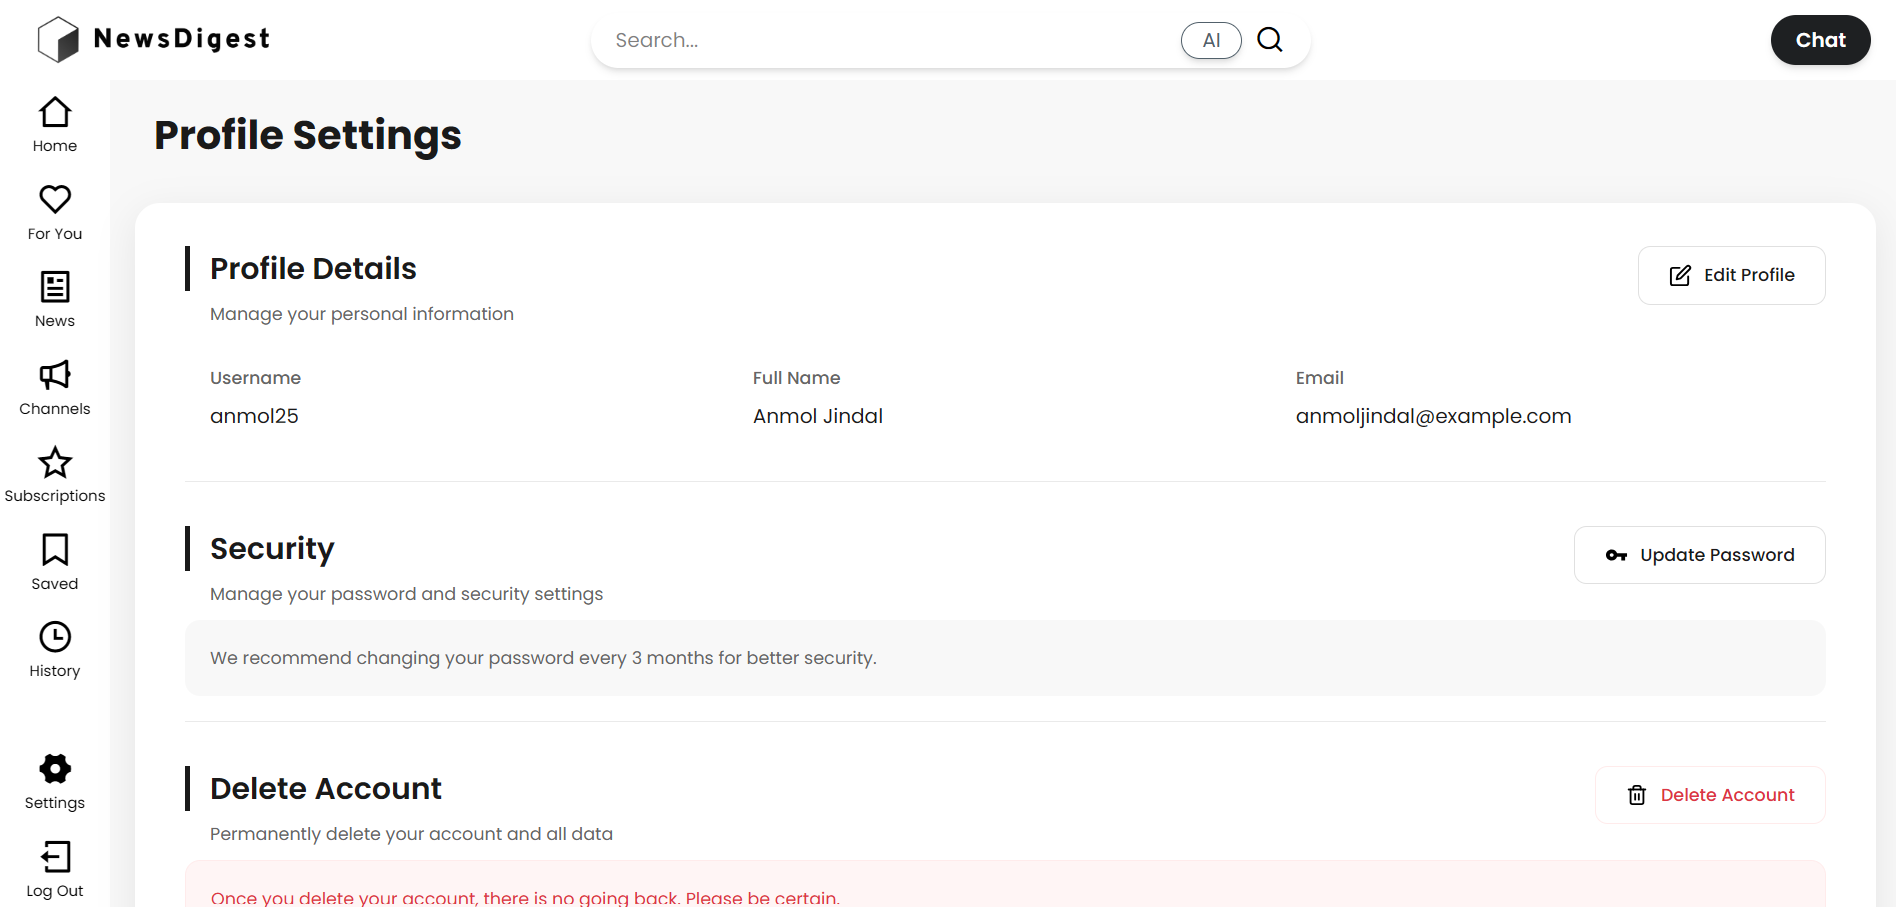
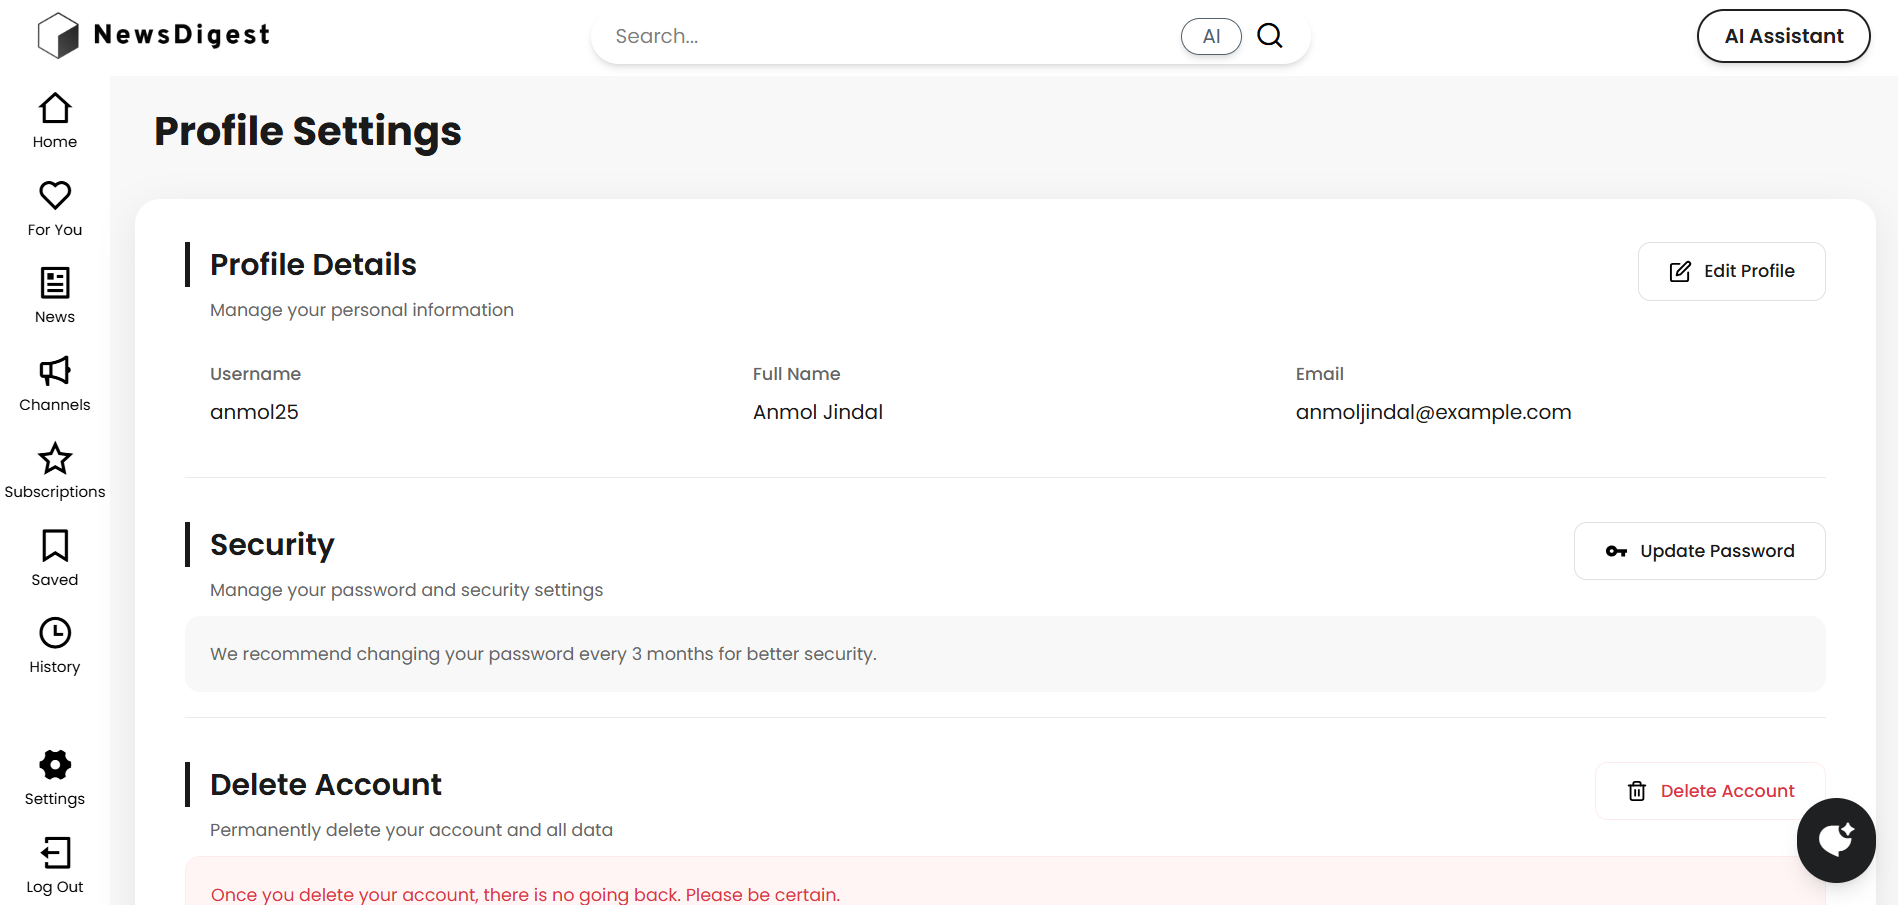
Updated Readme.MD

diff --git a/apps/frontend/src/components/ChatComponents/utils/MiniArticle.tsx b/apps/frontend/src/components/ChatComponents/utils/MiniArticle.tsx
@@ -31,7 +31,16 @@ function MiniArticle({ data }: { data: ArticleMeta }) {
             {published_date ? (
               <>
                 <span className="mx-1">•</span>
-                <span>{new Date(published_date).toLocaleString()}</span>
+                <span>
+                  {new Date(published_date).toLocaleString(undefined, {
+                    month: "short",
+                    day: "numeric",
+                    year: "numeric",
+                    hour: "numeric",
+                    minute: "2-digit",
+                    hour12: true,
+                  })}
+                </span>
               </>
             ) : null}
           </div>

diff --git a/apps/frontend/src/components/ChatMini/MiniChatWidget.tsx b/apps/frontend/src/components/ChatMini/MiniChatWidget.tsx
@@ -117,7 +117,7 @@ const MiniChatWidget: React.FC = () => {
 
       {/* Panel */}
       {isOpen && (
-        <div className="w-[450px] h-[550px] max-w-[92vw] max-h-[82vh] rounded-2xl shadow-xl border border-[#E5E5E5] bg-white overflow-hidden flex flex-col">
+        <div className="w-[500px] h-[600px] max-w-[92vw] max-h-[82vh] rounded-2xl shadow-xl border border-[#E5E5E5] bg-white overflow-hidden flex flex-col">
           {/* Header */}
           <div className="flex items-center justify-between px-3 py-2 border-b border-[#ECECEC] bg-[#FAFAFA]">
             <div className="flex items-center gap-2">

diff --git a/README.md b/README.md
@@ -8,6 +8,7 @@ NewsDigest is an AI-powered news aggregator designed to fix the modern news expe
   <img src="https://img.shields.io/badge/Styling-TailwindCSS-cyan?style=for-the-badge&logo=tailwindcss" alt="TailwindCSS">
   <img src="https://img.shields.io/badge/Database-PostgreSQL-blue?style=for-the-badge&logo=postgresql" alt="PostgreSQL">
   <img src="https://img.shields.io/badge/AI-Gemini_&_HuggingFace-orange?style=for-the-badge&logo=google-gemini" alt="AI Models">
+    <img src="https://img.shields.io/badge/Containers-Docker-informational?style=for-the-badge&logo=docker" alt="Docker">
 </p>
 
 ---
@@ -15,6 +16,18 @@ NewsDigest is an AI-powered news aggregator designed to fix the modern news expe
 <p align="center">
   <img src="images/home.gif" alt="NewsDigest Home Page" width="90%">
 </p>
+
+## Table of Contents
+
+- The Problem
+- Features
+- Agentic RAG Chatbot
+- Tech Stack
+- Project Snapshots
+- Requirements
+- Local Setup
+- Run with Docker (optional)
+- Author
 
 ## The Problem
 
@@ -26,11 +39,39 @@ Most news feeds are a mess. You're flooded with articles from countless sources,
 * **No More Duplicates**: Instead of just looking at headlines, NewsDigest uses SBERT embeddings to understand the *semantic meaning* of articles. If two articles are about the same thing, you'll only see the first one.
 * **Quick AI Summaries**: Get the gist of any article without reading the whole thing. Summaries are generated on the fly using a fine-tuned DistilBART model.
 * **Smarter Search with AI Highlights**: Standard search is combined with the Gemini API to provide AI-generated highlights for your query, giving you immediate context and answers.
+* **Agentic RAG Chatbot (Gemini 2.5 Flash)**: Conversational news analyst that scrapes the main article, compares 2–3 similar pieces, and produces search highlights from 5–6 high-signal results.
 * **Clean, Responsive UI**: The interface is built with React and Tailwind CSS for a simple, fast, and clutter-free reading experience on any device.
 * **A Feed That Learns**: The 'For You' page adapts to your reading history to show you more of what you care about.
 * **Standard User Features**: Includes secure JWT authentication, bookmarks, reading history, and source management.
 
 ---
+
+## Agentic RAG Chatbot
+
+Bring an analyst into your feed. The Agentic RAG (Retrieval-Augmented Generation) Chatbot uses a set of purpose-built tools to search, scrape, and cross-check coverage so you get trustworthy, contextual answers. It’s powered by Google Gemini 2.5 Flash for fast, high‑quality reasoning.
+
+Tools used by the Agent:
+
+- `search_db_tool`: Retrieves top relevant articles from the NewsDigest database based on your query.
+- `scrape_articles_tool`: Scrapes full content from article URLs for accurate analysis and summarization.
+- `latest_by_topic_tool`: Pulls the freshest coverage for a topic to ground responses in what’s new.
+
+What it can do:
+
+- AI News Analyzer
+    - Scrapes the main article you’re looking at.
+    - Finds 2–3 closely related articles across sources.
+    - Produces sharp highlights and a quick comparison of how different outlets covered the same story.
+
+- AI Search Highlights
+    - From the top 20 results for your query, selects 5–6 highly relevant articles.
+    - Scrapes them and generates concise, source-grounded highlights so you can skim the landscape in seconds.
+
+Why it’s useful:
+
+- Coverage awareness: See how narratives differ across outlets.
+- Faster decisions: Get the gist without opening a dozen tabs.
+- Grounded answers: Every highlight is backed by scraped content from real articles.
 
 ## Tech Stack
 
@@ -50,9 +91,18 @@ The project uses a modern Python/TypeScript stack:
 
 ## Project Snapshots
 
-![Home](images/home2.png)
+<p align="Center"><strong>Home</strong></p>
 
-![Search](images/AI-Search-Highlights.png)
+![Home](images/home2.png)
+<p align="Center"><strong>AI Assistant</strong></p>
+
+![ChatMessages](images/ChatMessages.png)
+<p align="Center"><strong>Search with AI highlights</strong></p>
+
+![Search](images/Search-AI.png)
+<p align="Center"><strong>AI News Analyze</strong></p>
+
+![AI-Analyze](images/AI-analyze.png)
 
 <p align="center"><img src="images/for-you.png" width=50% alt="For You"><img src="images/News.png" width=50% alt="News"></p>
 
@@ -121,7 +171,6 @@ This is the easiest way to get a Postgres instance with the `pgvector` extension
 
 3.  Install the dependencies: `pip install -r requirements.txt`
 4.  Run the server: `uvicorn main:app`
-    *The first time you run this, SQLAlchemy will automatically create all the tables in the database.*
 
 </details>
 
@@ -138,14 +187,7 @@ This is the easiest way to get a Postgres instance with the `pgvector` extension
 
 ---
 
-## What's Next?
-
-This project is still in active development. Here are a few things I'm planning to work on:
-
--   [ ] **RAG-based Chatbot**: Integrate a conversational AI (using Gemini) that lets you "ask questions" about the news articles in the database.
--   [ ] **Fact-Checking System**: Build a feature to automatically cross-reference claims in articles against verified sources.
-
----
+ 
 
 ## Author
 
